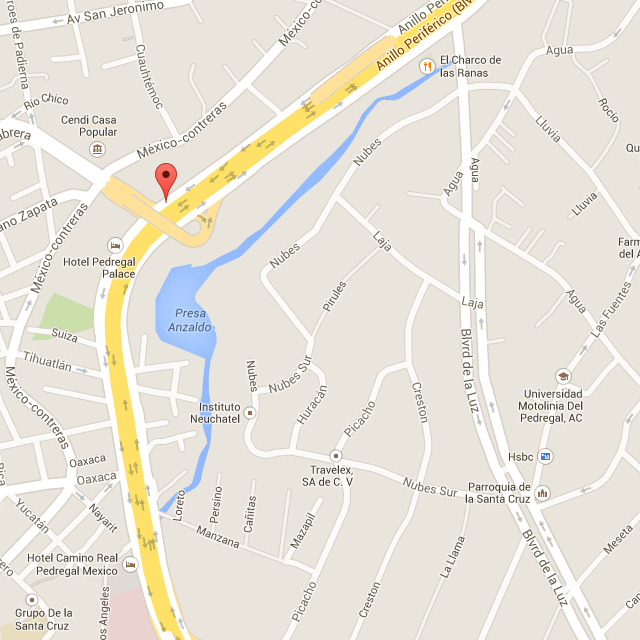
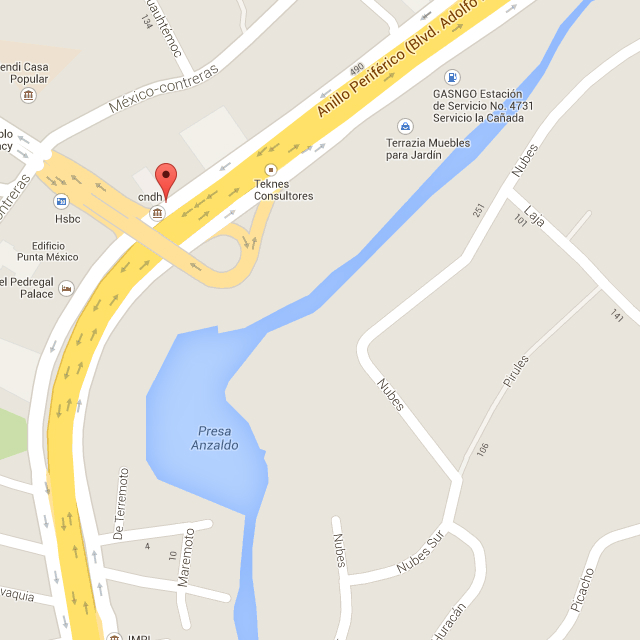
Actualizo imagenes

diff --git a/views/offices.html b/views/offices.html
@@ -43,7 +43,7 @@
         <header>México D.F.</header>
           <ul>
             <li>
-              <a href="#df" class="sede" data-image="../images/maps/2x.jpg" data-lat="19.32150" data-lon="-99.22037">
+              <a href="#df" class="sede" data-image="../images/maps/1.jpg" data-lat="19.32150" data-lon="-99.22037">
                 <p class="ciudad">Del. Magdalena Contreras</p>
                 <p class="direccion">Periférico Sur #3469, San Jerónimo Lídice, C. P. 10200</p>
               </a>
@@ -62,31 +62,31 @@
               </a>
             </li>
             <li>
-              <a href="#df" class="sede" data-image="../images/maps/venus.png" data-lat="19.298023" data-lon="-99.212313">
+              <a href="#df" class="sede" data-image="../images/maps/4.jpg" data-lat="19.298023" data-lon="-99.212313">
                 <p class="ciudad">Del. Tlalpan</p>
                 <p class="direccion">Carretera Picacho-Ajusco 238 Jardínes en la Montaña, C. P. 14210</p>
               </a>
             </li>
             <li>
-              <a href="#df" class="sede" data-image="../images/maps/venus.png" data-lat="19.391403" data-lon="-99.179472">
+              <a href="#df" class="sede" data-image="../images/maps/5.jpg" data-lat="19.391403" data-lon="-99.179472">
                 <p class="ciudad">Del. Benito Juárez</p>
                 <p class="direccion">Oklahoma #133, Nápoles, C. P. 03810</p>
               </a>
             </li>
             <li>
-              <a href="#df" class="sede" data-image="../images/maps/venus.png" data-lat="19.437222" data-lon="-99.136452">
+              <a href="#df" class="sede" data-image="../images/maps/6.jpg" data-lat="19.437222" data-lon="-99.136452">
                 <p class="ciudad">Del. Cuauhtémoc</p>
                 <p class="direccion">República de Cuba #60, Centro Histórico, C. P. 06010</p>
               </a>
             </li>
             <li>
-              <a href="#df" class="sede" data-image="../images/maps/venus.png" data-lat="19.338003" data-lon="-99.195901">
+              <a href="#df" class="sede" data-image="../images/maps/7.jpg" data-lat="19.338003" data-lon="-99.195901">
                 <p class="ciudad">Del. Álvaro Obregón</p>
                 <p class="direccion">Río Magdalena #108, Tizapan San Ángel, C. P. 01090</p>
               </a>
             </li>
             <li>
-              <a href="#df" class="sede" data-image="../images/maps/venus.png" data-lat="19.376443" data-lon="-99.193144">
+              <a href="#df" class="sede" data-image="../images/maps/8.jpg" data-lat="19.376443" data-lon="-99.193144">
                 <p class="ciudad">Del. Álvaro Obregón</p>
                 <p class="direccion">Sassoferrato #75 Col Alfonso XIII, C. P. 01460</p>
               </a>
@@ -95,7 +95,7 @@
         <header>Aguascalientes</header>
           <ul>
             <li>
-              <a href="#df" class="sede" data-image="../images/maps/venus.png" data-lat="21.883077" data-lon="-102.288852">
+              <a href="#df" class="sede" data-image="../images/maps/9.jpg" data-lat="21.883077" data-lon="-102.288852">
                 <p class="ciudad">Aguascalientes</p>
                 <p class="direccion">Av. Francisco I. Madero #447 Zona Centro, C. P. 20000</p>
               </a>
@@ -104,7 +104,7 @@
         <header>Baja California</header>
           <ul>
             <li>
-              <a href="#df" class="sede" data-image="../images/maps/venus.png" data-lat="32.518628" data-lon="-117.012711">
+              <a href="#df" class="sede" data-image="../images/maps/10.jpg" data-lat="32.518628" data-lon="-117.012711">
                 <p class="ciudad">Tijuana</p>
                 <p class="direccion">Boulevard Sánchez Taboada #4499, Locales 5 y 17 Plaza Guadalupe, Zona Río, C. P. 22010</p>
               </a>
@@ -113,7 +113,7 @@
         <header>Baja California Sur</header>
           <ul>
             <li>
-              <a href="#df" class="sede" data-image="../images/maps/venus.png" data-lat="24.158283" data-lon="-110.319139">
+              <a href="#df" class="sede" data-image="../images/maps/11.jpg" data-lat="24.158283" data-lon="-110.319139">
                 <p class="ciudad">La Paz</p>
                 <p class="direccion">Calle Mutualismo #460 Col. Centro, C. P. 23000</p>
               </a>
@@ -122,13 +122,13 @@
         <header>Chiapas</header>
           <ul>
             <li>
-              <a href="#df" class="sede" data-image="../images/maps/venus.png" data-lat="16.734811" data-lon="-92.634714">
+              <a href="#df" class="sede" data-image="../images/maps/12.jpg" data-lat="16.734811" data-lon="-92.634714">
                 <p class="ciudad">San Cristóbal de las Casas</p>
                 <p class="direccion">Av. Josefa Ortiz de Domínguez #28, Col. Barrio Santa Lucía, C. P. 29250</p>
               </a>
             </li>
             <li>
-              <a href="#df" class="sede" data-image="../images/maps/venus.png" data-lat="14.906243" data-lon="-92.265585">
+              <a href="#df" class="sede" data-image="../images/maps/13.jpg" data-lat="14.906243" data-lon="-92.265585">
                 <p class="ciudad">Tapachula</p>
                 <p class="direccion">2ª Calle Poniente, #20-A, Col. Centro, C. P. 30700</p>
               </a>
@@ -137,7 +137,7 @@
         <header>Chihuahua</header>
           <ul>
             <li>
-              <a href="#df" class="sede" data-image="../images/maps/venus.png" data-lat="31.737324" data-lon="-106.455291">
+              <a href="#df" class="sede" data-image="../images/maps/14.jpg" data-lat="31.737324" data-lon="-106.455291">
                 <p class="ciudad">Cd. Juárez</p>
                 <p class="direccion">Av. Paseo Triunfo de la República #2416, local 1, Col. Partido Escobedo, C. P. 32300</p>
               </a>
@@ -146,7 +146,7 @@
         <header>Coahuila</header>
           <ul>
             <li>
-              <a href="#df" class="sede" data-image="../images/maps/venus.png" data-lat="25.52261" data-lon="-103.403294">
+              <a href="#df" class="sede" data-image="../images/maps/15.jpg" data-lat="25.52261" data-lon="-103.403294">
                 <p class="ciudad">Torreón</p>
                 <p class="direccion">Calle Eulogio Ortíz #32 Col. Ampliación Los Ángeles, C. P. 27140</p>
               </a>
@@ -155,7 +155,7 @@
         <header>Guerrero</header>
           <ul>
             <li>
-              <a href="#df" class="sede" data-image="../images/maps/venus.png" data-lat="16.850777" data-lon="-99.850107">
+              <a href="#df" class="sede" data-image="../images/maps/16.jpg" data-lat="16.850777" data-lon="-99.850107">
                 <p class="ciudad">Acapulco</p>
                 <p class="direccion">Calle Cristobal Colón #12 Fraccionamiento Costa Azul, C. P. 39850</p>
               </a>
@@ -164,7 +164,7 @@
         <header>Michoacán</header>
           <ul>
             <li>
-              <a href="#df" class="sede" data-image="../images/maps/venus.png" data-lat="19.697673" data-lon="-101.167534">
+              <a href="#df" class="sede" data-image="../images/maps/17.jpg" data-lat="19.697673" data-lon="-101.167534">
                 <p class="ciudad">Morelia</p>
                 <p class="direccion">Avenida del Estudiante #102 entre Acueducto y Primer Privada del Estudiante Col. del Empleado, C. P. 58280</p>
               </a>
@@ -173,7 +173,7 @@
         <header>Oaxaca</header>
           <ul>
             <li>
-              <a href="#df" class="sede" data-image="../images/maps/venus.png" data-lat="16.557518" data-lon="-95.095152">
+              <a href="#df" class="sede" data-image="../images/maps/18.jpg" data-lat="16.557518" data-lon="-95.095152">
                 <p class="ciudad">Ixtepec</p>
                 <p class="direccion">Av. México S/N, Esquina Nicolás Bravo Col. Estación, C. P. 70110</p>
               </a>
@@ -182,7 +182,7 @@
         <header>San Luis Potosí</header>
           <ul>
             <li>
-              <a href="#df" class="sede" data-image="../images/maps/venus.png" data-lat="22.146678" data-lon="-101.007636">
+              <a href="#df" class="sede" data-image="../images/maps/19.jpg" data-lat="22.146678" data-lon="-101.007636">
                 <p class="ciudad">San Luis Potosí</p>
                 <p class="direccion">Calle Valentín Gama #865, Col. Las Águilas, C. P. 78260</p>
               </a>
@@ -191,7 +191,7 @@
         <header>Sonora</header>
           <ul>
             <li>
-              <a href="#df" class="sede" data-image="../images/maps/venus.png" data-lat="31.325388" data-lon="-110.945907">
+              <a href="#df" class="sede" data-image="../images/maps/20.jpg" data-lat="31.325388" data-lon="-110.945907">
                 <p class="ciudad">Nogales</p>
                 <p class="direccion">Av. Álvaro Obregón #360 Altos, Col. Centro, C. P. 84000</p>
               </a>
@@ -200,7 +200,7 @@
         <header>Tabasco</header>
           <ul>
             <li>
-              <a href="#df" class="sede" data-image="../images/maps/venus.png" data-lat="18.0017" data-lon="-92.92879">
+              <a href="#df" class="sede" data-image="../images/maps/21.jpg" data-lat="18.0017" data-lon="-92.92879">
                 <p class="ciudad">Villahermosa</p>
                 <p class="direccion">Av. Ruiz Cortines 54 Col. Magisterial, C. P. 86040</p>
               </a>
@@ -209,7 +209,7 @@
         <header>Tamaulipas</header>
           <ul>
             <li>
-              <a href="#df" class="sede" data-image="../images/maps/venus.png" data-lat="26.089599" data-lon="-98.272271">
+              <a href="#df" class="sede" data-image="../images/maps/22.jpg" data-lat="26.089599" data-lon="-98.272271">
                 <p class="ciudad">Reynosa</p>
                 <p class="direccion">Calle Ortiz Rubio #801, Locales 6 y 10, Col. Medardo González, C. P. 88550</p>
               </a>
@@ -218,7 +218,7 @@
         <header>Veracruz</header>
           <ul>
             <li>
-              <a href="#df" class="sede" data-image="../images/maps/venus.png" data-lat="18.147728" data-lon="-94.41158">
+              <a href="#df" class="sede" data-image="../images/maps/23.jpg" data-lat="18.147728" data-lon="-94.41158">
                 <p class="ciudad">Coatzacoalcos</p>
                 <p class="direccion">Av. Zaragoza #102, Col. Centro, C. P. 96400</p>
               </a>
@@ -227,7 +227,7 @@
         <header>Yucatán</header>
           <ul>
             <li>
-              <a href="#df" class="sede" data-image="../images/logo_cndh.png" data-lat="20.996571" data-lon="-89.621144">
+              <a href="#df" class="sede" data-image="../images/maps/24.jpg" data-lat="20.996571" data-lon="-89.621144">
                 <p class="ciudad">Mérida</p>
                 <p class="direccion">Calle 60 entre 23 y 25 Col. Alcala Martín, C. P. 97050</p>
               </a>

diff --git a/app/office.js b/app/office.js
@@ -59,18 +59,25 @@ $('.ocultar').addEventListener('click', function (){
             // get screen dimentions
 
             var screenWidth  = screen.width,
-                screenHeight = screen.height;
+                screenHeight = screen.height,
+                city = this.querySelector('.ciudad').innerHTML;
 
                 console.log(screenWidth + '  ll ' + screenHeight);
 
 
             var imagePath = this.getAttribute('data-image');
             var imageElement = document.createElement("img");
+            console.log(imagePath);
 
+            // set the 'city Title' in map screen
+            document.querySelector('.city-title').innerHTML = city;
+            
             // loadOfflineMap(screenWidth, imagePath);
 
             imageElement.setAttribute('src', imagePath);
-            //document.querySelector('[name="viewport"]').setAttribute('content','width=device-width');
+            // Delete previous map
+            document.querySelector('#map').innerHTML='';
+            // Load map
             document.querySelector('#map').appendChild(imageElement);
             //console.log(document.querySelector('[name="viewport"]'));
         }
